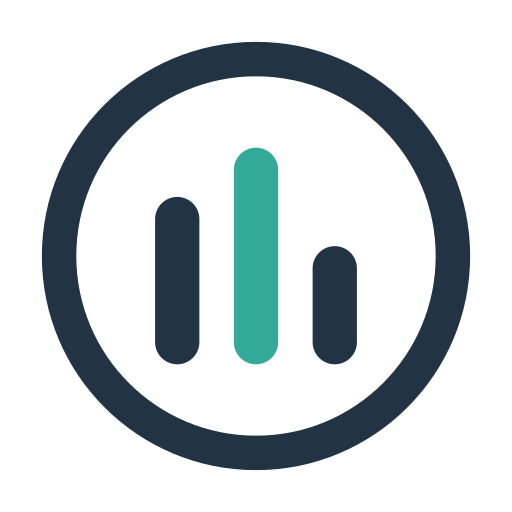
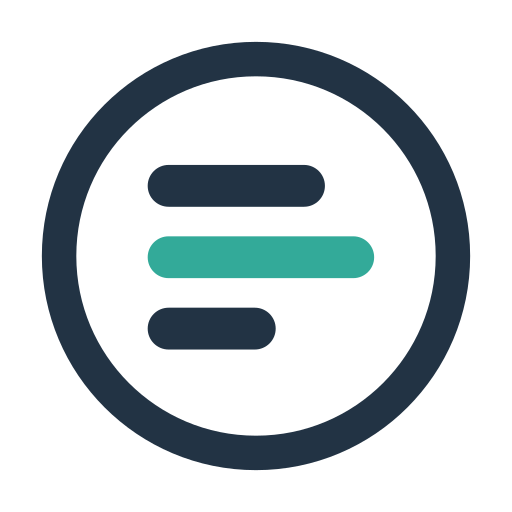
docs(brand): 标识定稿为「环 + 三条横向左对齐的条」
复核后定稿。此前的两个方向均已废弃：

- 竖条：与初始展示的方向不一致（横条被改了 90°），且形态被判定为怪
- 「环 + 字母 Z」：方向偏离，且丢失了"队列排空"的语义

定稿构造：
  环                   = 生命周期 / 容器作用域
  三条横向、左端对齐、长度不等的条 = 同一调度器下负载不同的任务，视觉上即队列在排空
  中间条（强调色、最长）  = 当前被观测 / 正在推进的那个任务

左端对齐的理由：使右端参差成为唯一的参差信号，形态近 `z`，与品牌名首字母形成关联。

两档容器（同构造、不同承载）：
- mark.svg / mark-dark.svg —— 细描边环，用于目标尺寸 >= 40px
- favicon.svg —— 实底方块，用于 < 40px（favicon / 缩略图 / 头像）

实测：实底色块的边缘对比度远高于细描边环，16px 下 favicon.svg 的条与边缘均清晰，
mark.svg 的细节则糊合——这是保留两档容器而非统一的原因。

docs/BRAND.md 同步更新：
- §2 重写为定稿构造 + 两档容器的使用条件 + 16px 实测对比
- 新增「变更记录」，把三轮已废弃试验（竖条 / 字母 Z / 斜向错位）逐条记录，避免重复

位图均由 SVG 重新渲染（logo.png / mark.png / favicon.png），未手工编辑。

验证：pytest 831 passed, 1 skipped；build + twine check 两产物 PASSED；
mkdocs build --strict 退出码 0。

Changed region(s): [[0.2812, 0.2812, 0.75, 0.7188]]

diff --git a/docs/BRAND.md b/docs/BRAND.md
@@ -20,29 +20,44 @@
 ## 2. 标识构造
 
 ```
-环（stroke 7）  = 生命周期 / 容器作用域（对应 Master 与 ScopedContainer）
-三条不等高的条   = 同一调度器下负载不同的 Worker（在飞、活跃、空闲）
-中间条用强调色   = 当前被观测的那个任务
+环                    = 生命周期 / 容器作用域（对应 Master 与 ScopedContainer）
+三条横条（左对齐）      = 同一调度器下负载不同的任务；左端对齐、右端参差
+                        —— 视觉上即一条队列在排空
+中间条（强调色、最长）  = 当前被观测 / 正在推进的那个任务
 ```
 
-几何刻意与本项目的**基准柱状图同形**——图表、标识、文档共用同一套视觉语法。
+**方向：横条。** 三条均为**水平**、**左端对齐**，右端参差。
+这条已明确记录，因为本标识的方向曾被误改为竖条（见「变更记录」）。
 
-### 条的方向：竖条（已定），以及为什么不是横条
+左端对齐（而非居中对齐）的理由：让右端的参差边缘成为**唯一**的参差信号，
+形态更接近一个 `z`，与品牌名首字母形成关联（"zoo" → z）。
 
-「三条不等高的条」这个构造有两种取向，二者只差 90° 旋转。**本仓库采用竖条**，理由如下：
+### 两档容器：同一构造，两种承载
 
-| 显示尺寸 | 竖条 | 横条 |
+| 文件 | 容器 | 使用条件 |
 |---|---|---|
-| ≥ 48px | 柱状图 / 吞吐量，与基准图表同形 | 队列在排空，语义贴切 |
-| **≤ 32px** | 仍读作"柱状" | **开始读作汉堡菜单图标**，过于通用、缺乏辨识 |
+| `mark.svg` / `mark-dark.svg` | **细描边环** | 目标显示尺寸 **≥ 40px** |
+| `favicon.svg` | **实底方块** | 目标显示尺寸 **< 40px**（favicon / 列表缩略图 / 头像 / 社交卡片） |
 
-决定性因素是**小尺寸**：favicon、列表缩略图、社交卡片都在 16–32px 区间，
-横条在该区间会与大量"三条横线"类图标混淆。
+实底色块的边缘对比度远高于细描边环，因此小尺寸必须换容器。实测：
 
-**如需改用横条**：将 `mark.svg` / `logo.svg` / `favicon.svg` 中的三条矩形按
-`(x, y, w, h) → (y, x, h, w)` 互换即可（即整体旋转 90°），几何关系不变。
-改向属于品牌决策，MUST 同步更新本节与 `logo.png` / `mark.png` / `favicon.png`
-（位图必须由 SVG 重新渲染，不得手工编辑）。
+| 16px 表现 | mark.svg（环） | favicon.svg（实底） |
+|---|---|---|
+| 可辨性 | 环与条都变淡，细节糊合 | **条与方块边缘均清晰** |
+
+**规则**：改构造时 MUST 两档同时改，且**位图必须由 SVG 重新渲染**（不得手工编辑）。
+
+### 变更记录
+
+本标识在定稿前经过三轮方向与形态试验，均**已废弃**，此处记录以免重复：
+
+| 试验 | 结论 |
+|---|---|
+| 竖条（三条不等高的竖条，与基准柱状图同形） | ✗ 与初始展示不一致，且被维护者判定形态怪 |
+| 环 + 字母 Z | ✗ 方向偏离；字母形虽小尺寸可辨，但丢失了"队列排空"的语义 |
+| 三条横线斜向错位（暗示 z 的对角） | ✗ 大方尺寸下读作"在滑动的横线"，不成立 |
+
+**最终采用「环 + 三条横向左对齐的条」**：语义（队列排空）与品牌关联（形近 `z`）兼得。
 
 ### 资产清单
 
